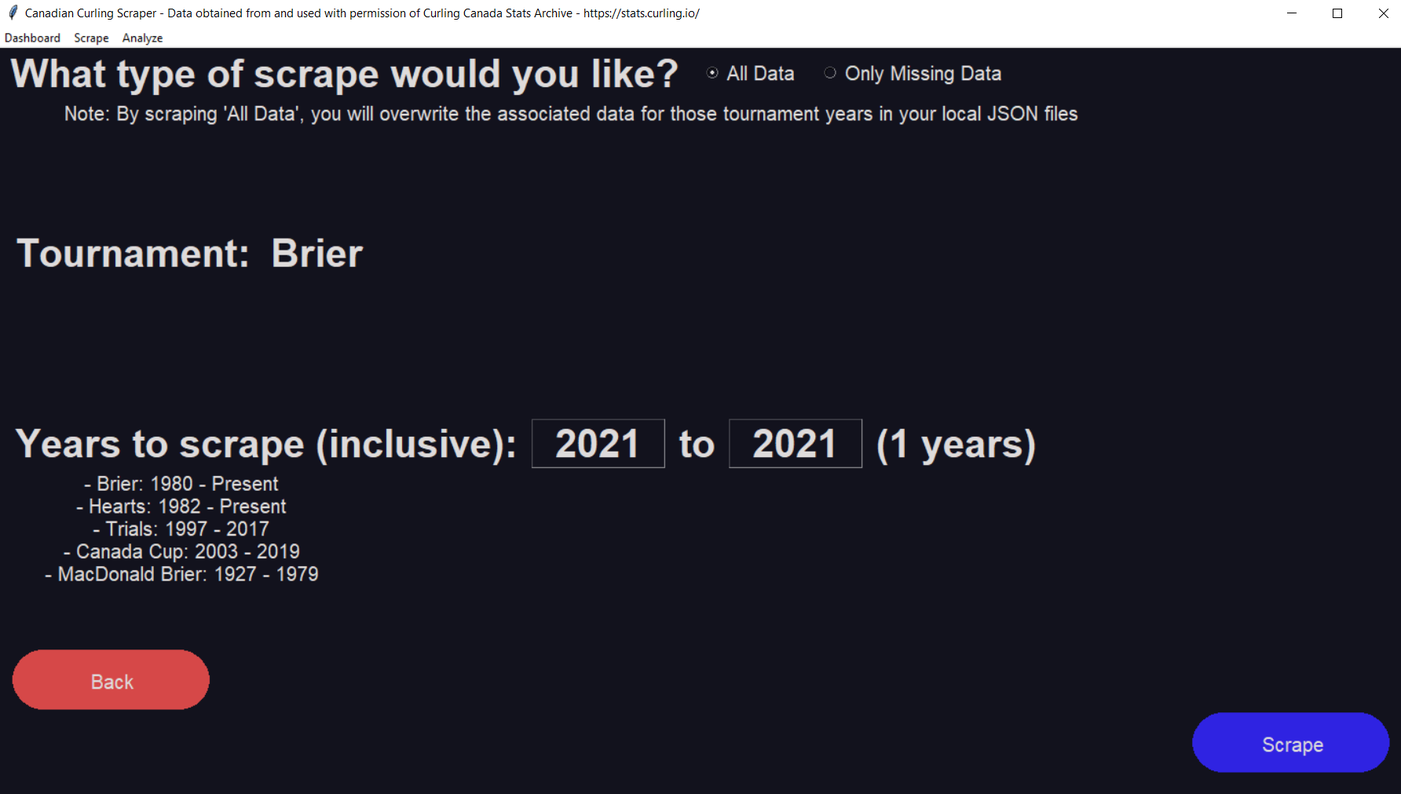
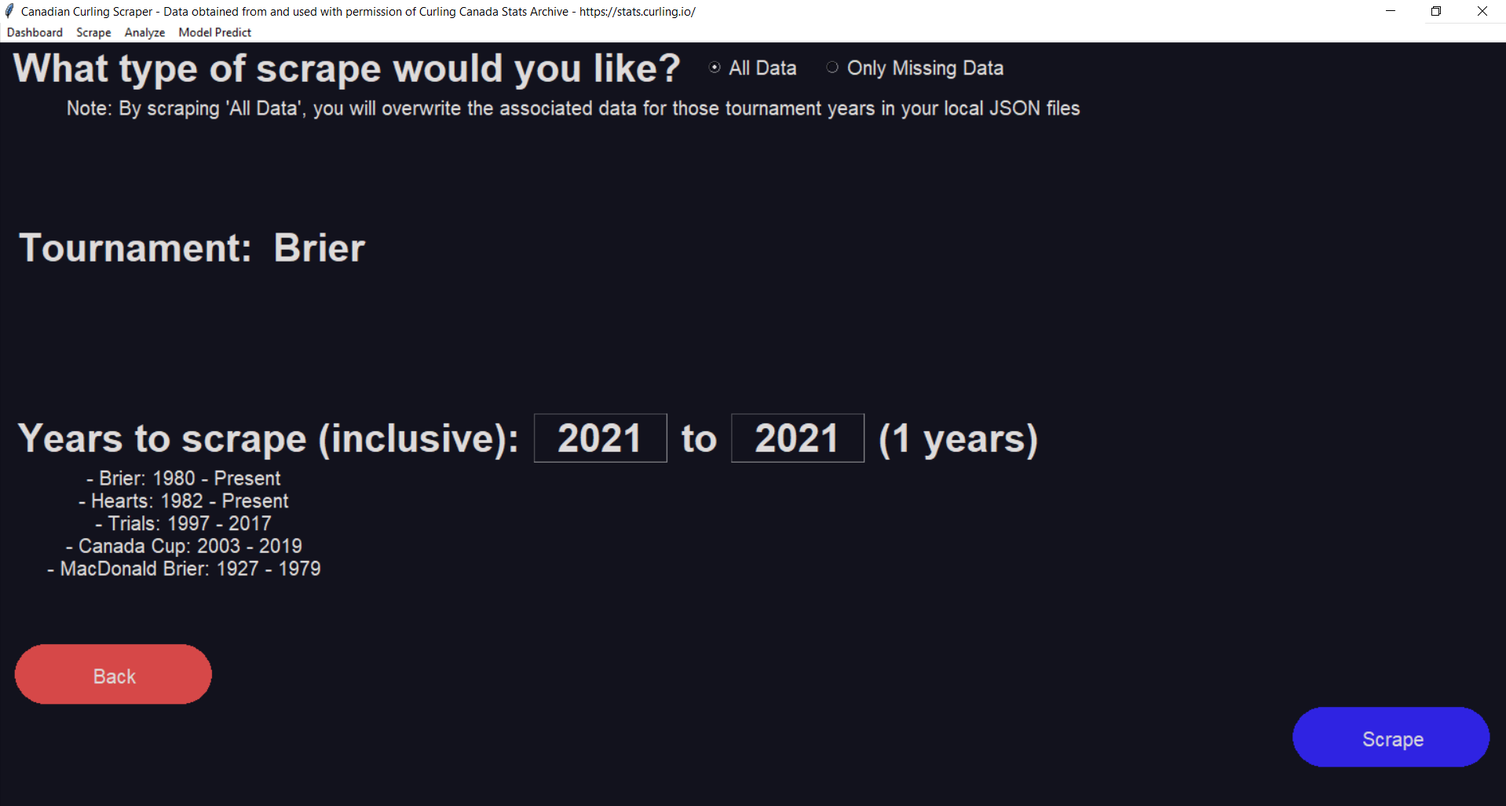
Updated the html and image folder for v2 of the curling scrapper

diff --git a/curling/index.html b/curling/index.html
@@ -8,182 +8,199 @@
 
 <body>
     <h1 class="code-line" data-line-start=0 data-line-end=1 ><a id="Curling_Canada_Scraper_0"></a>Curling Canada Scraper</h1>
-<ul>
-<li class="has-line-data" data-line-start="1" data-line-end="2"><strong>Author:</strong> Matthew Buglass</li>
-<li class="has-line-data" data-line-start="2" data-line-end="3"><strong>Copyright © 2021. Edwards School of Business - University of Saskatchewan</strong></li>
-<li class="has-line-data" data-line-start="3" data-line-end="4"><strong>Version:</strong> 01.00.00</li>
-<li class="has-line-data" data-line-start="4" data-line-end="5"><strong>Maintainer:</strong> Matthew Buglass</li>
-<li class="has-line-data" data-line-start="5" data-line-end="6"><strong>Email:</strong> <a href="mailto:scrapefl@gmail.com">scrapefl@gmail.com</a></li>
-<li class="has-line-data" data-line-start="6" data-line-end="7"><strong>Status:</strong> Stable Release</li>
-<li class="has-line-data" data-line-start="7" data-line-end="9">Curling data collected from and used with permission of <a href="https://stats.curling.io/"> Curling Canada</a></li>
-</ul>
-<h1 class="code-line" data-line-start=9 data-line-end=10 ><a id="About_9"></a>About</h1>
-<p class="has-line-data" data-line-start="10" data-line-end="13">This program allows for scraping data from Canadian National curling championships<br>
-dating back to the 1928 MacDonald Brier. Additionally, users can customize their data<br>
-sets and preview them before exporting to a csv file format.</p>
-<h1 class="code-line" data-line-start=14 data-line-end=15 ><a id="Change_Log_14"></a>Change Log</h1>
-<p class="has-line-data" data-line-start="15" data-line-end="19"><em>Version 01.00.00:</em> Initial stable release. Includes neural network model training and saving.<br>
-<em>Version 00.01.20:</em> Various bug fixes for retrieving csv data.<br>
-<em>Version 00.01.10:</em> Hotfix for function adding in analysis section.<br>
-<em>Version 00.01.00:</em> Initial Beta Release.</p>
-<hr>
-<h1 class="code-line" data-line-start=22 data-line-end=23 ><a id="Features_22"></a>Features</h1>
-<h2 class="code-line" data-line-start=23 data-line-end=24 ><a id="Data_Scraping_23"></a>Data Scraping</h2>
-<p class="has-line-data" data-line-start="24" data-line-end="25"><img src="readmeImages/img_1.png" alt="img_1.png"></p>
-<p class="has-line-data" data-line-start="26" data-line-end="29">By clicking “Scrape” in the top left toolbar users can choose to scrape only years<br>
-of data that are not on file, or scrape all new data in case of database changes or<br>
-updates. Users can choose one of 5 professional curling tournaments:</p>
-<ul>
-<li class="has-line-data" data-line-start="29" data-line-end="30">Brier</li>
-<li class="has-line-data" data-line-start="30" data-line-end="31">Hearts</li>
-<li class="has-line-data" data-line-start="31" data-line-end="32">Men’s Trials</li>
-<li class="has-line-data" data-line-start="32" data-line-end="33">Men’s Canadian Cup</li>
-<li class="has-line-data" data-line-start="33" data-line-end="35">MacDonald Brier</li>
-</ul>
-<p class="has-line-data" data-line-start="35" data-line-end="39">After choosing the tournament and years, users can see progress updated from<br>
-the scrape while they wait for it to complete. After the data is on file locally,<br>
-summary statistics can be viewed for each tournament and year on the main screen<br>
-dashboard.</p>
-<p class="has-line-data" data-line-start="40" data-line-end="41"><img src="readmeImages/img_3.png" alt="img_3.png"></p>
-<h2 class="code-line" data-line-start=42 data-line-end=43 ><a id="Data_Customization_and_Export_42"></a>Data Customization and Export</h2>
-<p class="has-line-data" data-line-start="43" data-line-end="44"><img src="readmeImages/img_5.png" alt="img_5.png"></p>
-<p class="has-line-data" data-line-start="45" data-line-end="47">By clicking “Analyze” in the top Left toolbar users are able to choose a tournament<br>
-and year range of data that they would like to analyze.</p>
-<ul>
-<li class="has-line-data" data-line-start="47" data-line-end="48"><strong>Tournament:</strong> This is which tournament is to be analyzed (i.e. Brier, Hearts, Men’s, Women’s, All, etc.)</li>
-<li class="has-line-data" data-line-start="48" data-line-end="49"><strong>Years:</strong> The inclusive year range of data</li>
-<li class="has-line-data" data-line-start="49" data-line-end="53"><strong>Dependent Variable:</strong> The data variable that you’d like to predict
-<ul>
-<li class="has-line-data" data-line-start="50" data-line-end="52">Only one occurrence of a variable can appear in a data set (i.e. one variable cannot be<br>
-both dependent and independent)</li>
-<li class="has-line-data" data-line-start="52" data-line-end="53">The dependent variable will always appear to the far right of the data set</li>
-</ul>
-</li>
-<li class="has-line-data" data-line-start="53" data-line-end="59"><strong>Granularity:</strong> This is the level at which the data will be analyzed. The statistics from the<br>
-different levels of granularity can be combined using functions like add, sum, division, average,<br>
-standard deviation, and many more. There are 3 levels of granularity:
-<ul>
-<li class="has-line-data" data-line-start="56" data-line-end="57"><em>Match</em> will yield one data line for each game played and is used for comparing match ups</li>
-<li class="has-line-data" data-line-start="57" data-line-end="58"><em>Team</em> will yield two data lines for each game played (one for each team)</li>
-<li class="has-line-data" data-line-start="58" data-line-end="59"><em>Player</em> will yield one data line for each player in each game</li>
-</ul>
-</li>
-<li class="has-line-data" data-line-start="59" data-line-end="63"><strong>Data Variables:</strong> The data variables are on the left side of the screen and can be clicked on<br>
-to be added as independent variables to the data set. The variables will be added to the data set<br>
-in the order that they were clicked on. Selected variables will be highlighted.</li>
-</ul>
-<h3 class="code-line" data-line-start=63 data-line-end=64 ><a id="Adding_Variable_Options_63"></a>Adding Variable Options</h3>
-<p class="has-line-data" data-line-start="64" data-line-end="68"><img src="readmeImages/img_6.png" alt="img_6.png"><br>
-<img src="readmeImages/img_7.png" alt="img_7.png"><br>
-<img src="readmeImages/img_8.png" alt="img_8.png"><br>
-<img src="readmeImages/img_9.png" alt="img_9.png"></p>
-<p class="has-line-data" data-line-start="69" data-line-end="74">If the independent variable to you need is not present, “Add Option” can<br>
-be clicked on to add new variables. A new window will pop up presenting you with options to add your own<br>
-custom data variables. Dropdown menus are available showing available functions, special states<br>
-(winner, loser, red, yellow, etc.), and data elements to be used. Any previously created data variable can<br>
-be used as an input for the data selection.</p>
-<p class="has-line-data" data-line-start="75" data-line-end="76"><img src="readmeImages/img_10.png" alt="img_10.png"></p>
-<p class="has-line-data" data-line-start="77" data-line-end="78">Additionally, if line scores are selected as a data element the ends necessary will need to be specified.</p>
-<h3 class="code-line" data-line-start=79 data-line-end=80 ><a id="Exporting_to_CSV_79"></a>Exporting to CSV</h3>
-<p class="has-line-data" data-line-start="81" data-line-end="84">To export your data to a CSV, click the green “To CSV” button in the bottom right. The data set will be<br>
-cleaned by removing any records that do not match the expected values for each data field, and a file dialog<br>
-window will be launched to permit you to save the file in your desired location.</p>
-<h2 class="code-line" data-line-start=85 data-line-end=86 ><a id="Neural_Network_Training_85"></a>Neural Network Training</h2>
-<h3 class="code-line" data-line-start=87 data-line-end=88 ><a id="Neural_Network_Settings_87"></a>Neural Network Settings</h3>
-<p class="has-line-data" data-line-start="88" data-line-end="94"><img src="readmeImages/img_11.png" alt="img_11.png"><br>
-In this menu, you can customize the setting for a neural network that will be trained on the data set that<br>
-you just created. The dependent variable that you selected while customizing your data will be used as the<br>
-“target” for the model (ie. the thing that it will try to predict in the output layer), while the other data<br>
-elements will be put into the input layer and used to predict the target. At the top of the screen are<br>
-overarching settings for your model.</p>
-<h4 class="code-line" data-line-start=95 data-line-end=96 ><a id="General_Settings_95"></a>General Settings:</h4>
-<ul>
-<li class="has-line-data" data-line-start="96" data-line-end="101"><strong>Epochs:</strong> Epochs are the number of times that hte model is to be shown the data.<br>
-At each epoch, the data elements in the testing data set are shuffled and fed<br>
-through the network. The more epochs you use, the more accurate your model will be<br>
-(up to a point, because epoch number increases yield diminishing returns) but the<br>
-longer that your model will take to train.</li>
-<li class="has-line-data" data-line-start="101" data-line-end="107"><strong>Model Optimizer:</strong> The optimizer is the algorithm or method that the model uses to<br>
-change the internal weights and biases of the nodes in a neural network. Different<br>
-optimizers are more or less useful depending on the nature of your analysis.
-<ul>
-<li class="has-line-data" data-line-start="104" data-line-end="107">For discussion on different optimizers, refer to<br>
-<a href="https://towardsdatascience.com/overview-of-various-optimizers-in-neural-networks-17c1be2df6d5">Overview of various Optimizers in Neural Networks</a><br>
-written by Satyam Kumar.</li>
-</ul>
-</li>
-<li class="has-line-data" data-line-start="107" data-line-end="112"><strong>Training Percent:</strong> The training percent is a value from 1.0-100.0 that determines<br>
-how much of the dataset should be used to train, test, and validate the<br>
-model. The number entered will be the percent of the dataset that is used<br>
-for training. The remaining percent will be divided evenly into testing and<br>
-validation datasets.</li>
-<li class="has-line-data" data-line-start="112" data-line-end="119"><strong>Model Loss Function:</strong> The loss function is what is used to calculate the difference<br>
-in the model’s prediction and its target. The model attempts to minimize the result from<br>
-the loss function using the optimizer algorithm.
-<ul>
-<li class="has-line-data" data-line-start="115" data-line-end="119">For information on the four main loss functions, (Mean Squared Error, Binary Crossentropy,<br>
-Categorical Crossentropy, and Sparse Categorical Crossentropy) please see<br>
-<a href="https://towardsdatascience.com/understanding-different-loss-functions-for-neural-networks-dd1ed0274718">Understanding different Loss Functions for Neural Networks</a><br>
-written by Shiva Verma</li>
-</ul>
-</li>
-<li class="has-line-data" data-line-start="119" data-line-end="121"><strong>Model Name:</strong> This is what you would like to name your model. When saving, this will be the<br>
-folder name for the model.</li>
-<li class="has-line-data" data-line-start="121" data-line-end="125"><strong>Evaluation Metrics:</strong> These are additional data elements that you would like to use<br>
-to judge your model. You can select none, one, or many. Accuracy and Binary Accuracy are<br>
-common selections.</li>
-</ul>
-<p class="has-line-data" data-line-start="125" data-line-end="129">Below those, there are the hidden layer settings. Hidden layers are processing steps<br>
-that are sandwiched between the input and output layers. The layers are processed<br>
-sequentially from the top to the bottom. You can add, move, edit, or delete layers as<br>
-you wish. The model can have none, one, or many hidden layers.</p>
-<h4 class="code-line" data-line-start=129 data-line-end=130 ><a id="Hidden_Layer_Settings_129"></a>Hidden Layer Settings:</h4>
-<ul>
-<li class="has-line-data" data-line-start="130" data-line-end="131"><strong>Name:</strong> This is what you’d like to name the layer</li>
-<li class="has-line-data" data-line-start="131" data-line-end="134"><strong>Layer Size:</strong> This is the number of nodes in the layer. Each node will be initialized<br>
-with the activation function of the layer and will be independently updated as the<br>
-model is trained.</li>
-<li class="has-line-data" data-line-start="134" data-line-end="138"><strong>Layer Type:</strong> The layer type defines how the outputs of the previous layer are<br>
-directed to the inputs of this layer.
-<ul>
-<li class="has-line-data" data-line-start="136" data-line-end="138">Right now only the Dense layer type is available. With the Dense layer type, each<br>
-output of the previous layer is used as an input.</li>
-</ul>
-</li>
-<li class="has-line-data" data-line-start="138" data-line-end="146"><strong>Activation Function:</strong> The activation function is the mathematical relationship<br>
-between a node’s input and output. As an example, in single variate linear regression,<br>
-we have an input and an output, and the mx+b function that results from our regression<br>
-is analogous to a node’s activation function.
-<ul>
-<li class="has-line-data" data-line-start="142" data-line-end="146">For more explination on the types of activation functions, check out<br>
-<a href="https://towardsdatascience.com/activation-functions-neural-networks-1cbd9f8d91d6">Activation Functions in Neural Networks</a><br>
-writen by Sagar Sharma.</li>
-</ul>
-</li>
-</ul>
-<h2 class="code-line" data-line-start=146 data-line-end=147 ><a id="Neural_Network_Training_146"></a>Neural Network Training</h2>
-<p class="has-line-data" data-line-start="147" data-line-end="151"><img src="readmeImages/img_12.png" alt="img_12.png"><br>
-After hitting “Train Neural Network” on the settings screen, the dataset you created will<br>
-be cleaned and both it and your settings will be used to create and train a neural<br>
-network. While training, progress updates will be displayed on the screen.</p>
-<ul>
-<li class="has-line-data" data-line-start="152" data-line-end="157"><strong>Known Problems:</strong> At this stage, if the mouse is clicked a message on the top bar of<br>
-the application will say “Not Responding”. Do not worry. Your model is still training,<br>
-the window is just not updating. After the model has finished training, the screen will<br>
-update with the results from the training</li>
-</ul>
-<p class="has-line-data" data-line-start="157" data-line-end="161">After your model has finished training, you have the option to save it for later, once model<br>
-loading and prediction functionalities are implemented. After clicking “Save Model”, you will<br>
-select the directory that you would like your models to be saved in. A folder with your model’s<br>
-name will be created in that directory.</p>
-<hr>
-<h1 class="code-line" data-line-start=163 data-line-end=164 ><a id="Bug_Reporting_163"></a>Bug Reporting</h1>
-<ul>
-<li class="has-line-data" data-line-start="164" data-line-end="166">If you find any bugs or have suggestions, please fill out our<br>
-<a href="https://forms.gle/a81KZ8MF55q5G7bs9">Bug Reporting Google Form</a>.</li>
-<li class="has-line-data" data-line-start="166" data-line-end="168">You can see the progress and status of different bugs in the<br>
-<a href="https://trello.com/b/3jCCACQV/curling-scrapper-bug-reporting">Bug Reporting Task Board</a></li>
-</ul>
+    <ul>
+    <li class="has-line-data" data-line-start="1" data-line-end="2"><strong>Author:</strong> Matthew Buglass</li>
+    <li class="has-line-data" data-line-start="2" data-line-end="3"><strong>Copyright © 2021. Edwards School of Business - University of Saskatchewan</strong></li>
+    <li class="has-line-data" data-line-start="3" data-line-end="4"><strong>Version:</strong> 02.00.00</li>
+    <li class="has-line-data" data-line-start="4" data-line-end="5"><strong>Maintainer:</strong> Matthew Buglass</li>
+    <li class="has-line-data" data-line-start="5" data-line-end="6"><strong>Email:</strong> <a href="mailto:scrapefl@gmail.com">scrapefl@gmail.com</a></li>
+    <li class="has-line-data" data-line-start="6" data-line-end="7"><strong>Status:</strong> Stable Release</li>
+    <li class="has-line-data" data-line-start="7" data-line-end="9">Curling data collected from and used with permission of <a href="https://stats.curling.io/">Curling Canada</a></li>
+    </ul>
+    <h1 class="code-line" data-line-start=9 data-line-end=10 ><a id="About_9"></a>About</h1>
+    <p class="has-line-data" data-line-start="10" data-line-end="13">This program allows for scrapping data from Canadian National curling championships<br>
+    dating back to the 1928 MacDonald Brier. Additionally, users can customize their data<br>
+    sets and preview them before exporting to a CSV file format.</p>
+    <h1 class="code-line" data-line-start=14 data-line-end=15 ><a id="Change_Log_14"></a>Change Log</h1>
+    <p class="has-line-data" data-line-start="15" data-line-end="22"><em>Version 02.00.00:</em> Fixed bug issues related to creating neural network models. Models are<br>
+    saved with more extensive statistics and can be loaded into the program to make predictions. Long<br>
+    drop-down menus are displayed alphabetically to improve navigation<br>
+    <em>Version 01.00.00:</em> Initial stable release. Includes neural network model training and saving.<br>
+    <em>Version 00.01.20:</em> Various bug fixes for retrieving CSV data.<br>
+    <em>Version 00.01.10:</em> Hotfix for function adding in the analysis section.<br>
+    <em>Version 00.01.00:</em> Initial Beta Release.</p>
+    <hr>
+    <h1 class="code-line" data-line-start=25 data-line-end=26 ><a id="Features_25"></a>Features</h1>
+    <h2 class="code-line" data-line-start=26 data-line-end=27 ><a id="Data_Scraping_26"></a>Data Scraping</h2>
+    <p class="has-line-data" data-line-start="27" data-line-end="28"><img src="readmeImages/img_1.png" alt="Scrapping home screen"></p>
+    <p class="has-line-data" data-line-start="29" data-line-end="32">By clicking “Scrape” in the top left toolbar users can choose to scrape only years<br>
+    of data that are not on file, or scrape all new data in case of database changes or<br>
+    updates. Users can choose one of 5 professional curling tournaments:</p>
+    <ul>
+    <li class="has-line-data" data-line-start="32" data-line-end="33">Brier</li>
+    <li class="has-line-data" data-line-start="33" data-line-end="34">Hearts</li>
+    <li class="has-line-data" data-line-start="34" data-line-end="35">Men’s Trials</li>
+    <li class="has-line-data" data-line-start="35" data-line-end="36">Men’s Canadian Cup</li>
+    <li class="has-line-data" data-line-start="36" data-line-end="38">MacDonald Brier</li>
+    </ul>
+    <p class="has-line-data" data-line-start="38" data-line-end="42">After choosing the tournament and years, users can see progress updated from<br>
+    the scrape while they wait for it to complete. After the data is on file locally,<br>
+    summary statistics can be viewed for each tournament and year on the main screen<br>
+    dashboard.</p>
+    <p class="has-line-data" data-line-start="43" data-line-end="44"><img src="readmeImages/img_3.png" alt="Dashboard"></p>
+    <h2 class="code-line" data-line-start=45 data-line-end=46 ><a id="Data_Customization_and_Export_45"></a>Data Customization and Export</h2>
+    <p class="has-line-data" data-line-start="46" data-line-end="47"><img src="readmeImages/img_5.png" alt="Dataset customization screen"></p>
+    <p class="has-line-data" data-line-start="48" data-line-end="50">By clicking “Analyze” in the top Left toolbar users can choose a tournament<br>
+    and year range of data that they would like to analyze.</p>
+    <ul>
+    <li class="has-line-data" data-line-start="50" data-line-end="51"><strong>Tournament:</strong> This is which tournament is to be analyzed (i.e. Brier, Hearts, Men’s, Women’s, All, etc.)</li>
+    <li class="has-line-data" data-line-start="51" data-line-end="52"><strong>Years:</strong> The inclusive year range of data</li>
+    <li class="has-line-data" data-line-start="52" data-line-end="56"><strong>Dependent Variable:</strong> The data variable that you’d like to predict
+    <ul>
+    <li class="has-line-data" data-line-start="53" data-line-end="55">Only one occurrence of a variable can appear in a data set (i.e. one variable cannot be<br>
+    both dependent and independent)</li>
+    <li class="has-line-data" data-line-start="55" data-line-end="56">The dependent variable will always appear to the far right of the data set</li>
+    </ul>
+    </li>
+    <li class="has-line-data" data-line-start="56" data-line-end="62"><strong>Granularity:</strong> This is the level at which the data will be analyzed. The statistics from the<br>
+    different levels of granularity can be combined using functions like add, sum, division, average,<br>
+    standard deviation, and many more. There are 3 levels of granularity:
+    <ul>
+    <li class="has-line-data" data-line-start="59" data-line-end="60"><em>Match</em> will yield one data line for each game played and is used for comparing matchups</li>
+    <li class="has-line-data" data-line-start="60" data-line-end="61"><em>Team</em> will yield two data lines for each game played (one for each team)</li>
+    <li class="has-line-data" data-line-start="61" data-line-end="62"><em>Player</em> will yield one data line for each player in each game</li>
+    </ul>
+    </li>
+    <li class="has-line-data" data-line-start="62" data-line-end="66"><strong>Data Variables:</strong> The data variables are on the left side of the screen and can be clicked on<br>
+    to be added as independent variables to the data set. The variables will be added to the data set<br>
+    in the order that they were clicked on. Selected variables will be highlighted.</li>
+    </ul>
+    <h3 class="code-line" data-line-start=66 data-line-end=67 ><a id="Adding_Variable_Options_66"></a>Adding Variable Options</h3>
+    <p class="has-line-data" data-line-start="67" data-line-end="71"><img src="readmeImages/img_6.png" alt="Add Analysis option screen 1"><br>
+    <img src="readmeImages/img_7.png" alt="Add Analysis option screen 2"><br>
+    <img src="readmeImages/img_8.png" alt="Add Analysis option screen 3"><br>
+    <img src="readmeImages/img_9.png" alt="Add Analysis option screen 4"></p>
+    <p class="has-line-data" data-line-start="72" data-line-end="77">If the independent variable you need is not present, “Add Option” can<br>
+    be clicked on to add new variables. A new window will pop up presenting you with options to add<br>
+    custom data variables. Dropdown menus are available showing available functions, special states<br>
+    (winner, loser, red, yellow, etc.), and data elements to be used. Any previously created data variable can<br>
+    be used as an input for the data selection.</p>
+    <p class="has-line-data" data-line-start="78" data-line-end="79"><img src="readmeImages/img_10.png" alt="Add Analysis option screen 5"></p>
+    <p class="has-line-data" data-line-start="80" data-line-end="81">Additionally, if line scores are selected as a data element the ends necessary will need to be specified.</p>
+    <h3 class="code-line" data-line-start=82 data-line-end=83 ><a id="Exporting_to_CSV_82"></a>Exporting to CSV</h3>
+    <p class="has-line-data" data-line-start="84" data-line-end="87">To export your data to a CSV, click the green “To CSV” button in the bottom right. The data set will be<br>
+    cleaned by removing any records that do not match the expected values for each data field, and a file dialogue<br>
+    window will be launched to permit you to save the file in your desired location.</p>
+    <h2 class="code-line" data-line-start=88 data-line-end=89 ><a id="Neural_Network_Training_88"></a>Neural Network Training</h2>
+    <h3 class="code-line" data-line-start=90 data-line-end=91 ><a id="Neural_Network_Settings_90"></a>Neural Network Settings</h3>
+    <p class="has-line-data" data-line-start="91" data-line-end="97"><img src="readmeImages/img_11.png" alt="Neural Network Customization Screen"><br>
+    In this menu, you can customize the setting for a neural network that will be trained on the data set that<br>
+    you just created. The dependent variable that you selected while customizing your data will be used as the<br>
+    “target” for the model (ie. the thing that it will try to predict in the output layer), while the other data<br>
+    elements will be put into the input layer and used to predict the target. At the top of the screen are<br>
+    overarching settings for your model.</p>
+    <h4 class="code-line" data-line-start=98 data-line-end=99 ><a id="General_Settings_98"></a>General Settings:</h4>
+    <ul>
+    <li class="has-line-data" data-line-start="99" data-line-end="104"><strong>Epochs:</strong> Epochs are the number of times that the model is to be shown the data.<br>
+    At each epoch, the data elements in the testing data set are shuffled and fed<br>
+    through the network. The more epochs you use, the more accurate your model will be<br>
+    (up to a point, because epoch number increases yield diminishing returns) but the<br>
+    longer that your model will take to train.</li>
+    <li class="has-line-data" data-line-start="104" data-line-end="110"><strong>Model Optimizer:</strong> The optimizer is the algorithm or method that the model uses to<br>
+    change the internal weights and biases of the nodes in a neural network. Different<br>
+    optimizers are more or less useful depending on the nature of your analysis.
+    <ul>
+    <li class="has-line-data" data-line-start="107" data-line-end="110">For discussion on different optimizers, refer to<br>
+    <a href="https://towardsdatascience.com/overview-of-various-optimizers-in-neural-networks-17c1be2df6d5">Overview of various Optimizers in Neural Networks</a><br>
+    written by Satyam Kumar.</li>
+    </ul>
+    </li>
+    <li class="has-line-data" data-line-start="110" data-line-end="115"><strong>Training Percent:</strong> The training percent is a value from 1.0-100.0 that determines<br>
+    how much of the dataset should be used to train, test, and validate the<br>
+    model. The number entered will be the percent of the dataset that is used<br>
+    for training. The remaining percent will be divided evenly into testing and<br>
+    validation datasets.</li>
+    <li class="has-line-data" data-line-start="115" data-line-end="122"><strong>Model Loss Function:</strong> The loss function is what is used to calculate the difference<br>
+    in the model’s prediction and its target. The model attempts to minimize the result from<br>
+    the loss function using the optimizer algorithm.
+    <ul>
+    <li class="has-line-data" data-line-start="118" data-line-end="122">For information on the four main loss functions, (Mean Squared Error, Binary Crossentropy,<br>
+    Categorical Crossentropy, and Sparse Categorical Crossentropy) please see<br>
+    <a href="https://towardsdatascience.com/understanding-different-loss-functions-for-neural-networks-dd1ed0274718">Understanding different Loss Functions for Neural Networks</a><br>
+    written by Shiva Verma</li>
+    </ul>
+    </li>
+    <li class="has-line-data" data-line-start="122" data-line-end="124"><strong>Model Name:</strong> This is what you would like to name your model. When saving, this will be the<br>
+    folder name for the model.</li>
+    <li class="has-line-data" data-line-start="124" data-line-end="128"><strong>Evaluation Metrics:</strong> These are additional data elements that you would like to use<br>
+    to judge your model. You can select none, one, or many. Accuracy and Binary Accuracy are<br>
+    common selections.</li>
+    </ul>
+    <p class="has-line-data" data-line-start="128" data-line-end="132">Below those, there are the hidden layer settings. Hidden layers are processing steps<br>
+    that are sandwiched between the input and output layers. The layers are processed<br>
+    sequentially from the top to the bottom. You can add, move, edit, or delete layers as<br>
+    you wish. The model can have none, one, or many hidden layers.</p>
+    <h4 class="code-line" data-line-start=132 data-line-end=133 ><a id="Hidden_Layer_Settings_132"></a>Hidden Layer Settings:</h4>
+    <ul>
+    <li class="has-line-data" data-line-start="133" data-line-end="134"><strong>Name:</strong> This is what you’d like to name the layer</li>
+    <li class="has-line-data" data-line-start="134" data-line-end="137"><strong>Layer Size:</strong> This is the number of nodes in the layer. Each node will be initialized<br>
+    with the activation function of the layer and will be independently updated as the<br>
+    model is trained.</li>
+    <li class="has-line-data" data-line-start="137" data-line-end="141"><strong>Layer Type:</strong> The layer type defines how the outputs of the previous layer are<br>
+    directed to the inputs of this layer.
+    <ul>
+    <li class="has-line-data" data-line-start="139" data-line-end="141">Right now only the Dense layer type is available. With the Dense layer type, each<br>
+    output of the previous layer is used as an input.</li>
+    </ul>
+    </li>
+    <li class="has-line-data" data-line-start="141" data-line-end="149"><strong>Activation Function:</strong> The activation function is the mathematical relationship<br>
+    between a node’s input and output. As an example, in single variate linear regression,<br>
+    we have an input and an output, and the mx+b function that results from our regression<br>
+    is analogous to a node’s activation function.
+    <ul>
+    <li class="has-line-data" data-line-start="145" data-line-end="149">For more explanation on the types of activation functions, check out<br>
+    <a href="https://towardsdatascience.com/activation-functions-neural-networks-1cbd9f8d91d6">Activation Functions in Neural Networks</a><br>
+    writen by Sagar Sharma.</li>
+    </ul>
+    </li>
+    </ul>
+    <h2 class="code-line" data-line-start=149 data-line-end=150 ><a id="Neural_Network_Training_and_Prediction_149"></a>Neural Network Training and Prediction</h2>
+    <h3 class="code-line" data-line-start=150 data-line-end=151 ><a id="Network_Training_150"></a>Network Training</h3>
+    <p class="has-line-data" data-line-start="151" data-line-end="155"><img src="readmeImages/img_12.png" alt="img_12.png"><br>
+    After hitting “Train Neural Network” on the settings screen, the dataset you created will<br>
+    be cleaned and both it and your settings will be used to create and train a neural<br>
+    network. While training, progress updates will be displayed on the screen.</p>
+    <ul>
+    <li class="has-line-data" data-line-start="156" data-line-end="161"><strong>Known Problems:</strong> At this stage, if the mouse is clicked a message on the top bar of<br>
+    the application will say “Not Responding”. Do not worry. Your model is still training,<br>
+    the window is just not updating. After the model has finished training, the screen will<br>
+    update with the results from the training</li>
+    </ul>
+    <p class="has-line-data" data-line-start="161" data-line-end="164">After your model has finished training, you have the option to save it for later. After clicking<br>
+    “Save Model”, you will select the directory that you would like your models to be saved in. A<br>
+    folder with your model’s name will be created in that directory.</p>
+    <h3 class="code-line" data-line-start=165 data-line-end=166 ><a id="Network_Prediction_165"></a>Network Prediction</h3>
+    <p class="has-line-data" data-line-start="166" data-line-end="169">By clicking “Model Predict” on the menu bar, you will be prompted to pick the folder<br>
+    of the model that you would like to make predictions from. Make sure that the folder you<br>
+    select has the header “curling_ai_model_” because all files in that folder are required.</p>
+    <p class="has-line-data" data-line-start="170" data-line-end="171"><img src="readmeImages/img_13.png" alt="Model loading file dialog"></p>
+    <p class="has-line-data" data-line-start="172" data-line-end="174">Once the model loads, you can input values and select different variables to make  predictions on the trained model. Your most recent prediction will appear on the<br>
+    top of the screen.</p>
+    <p class="has-line-data" data-line-start="175" data-line-end="176"><img src="readmeImages/img_14.png" alt="Model prediction"></p>
+    <p class="has-line-data" data-line-start="177" data-line-end="181">If you look inside the “curling_ai_model_” you’ll find the files that describe the<br>
+    saved model. By opening the stats text file, you can see the settings that were used<br>
+    to train the model, its layer structure, what it was trying to predict, and the results<br>
+    of its evaluation metrics.</p>
+    <p class="has-line-data" data-line-start="182" data-line-end="184"><img src="readmeImages/img_15.png" alt="Inside curling_ai folder"><br>
+    <img src="readmeImages/img_16.png" alt="Stats text file"></p>
+    <hr>
+    <h1 class="code-line" data-line-start=186 data-line-end=187 ><a id="Bug_Reporting_186"></a>Bug Reporting</h1>
+    <ul>
+    <li class="has-line-data" data-line-start="187" data-line-end="189">If you find any bugs or have suggestions, please fill out our<br>
+    <a href="https://forms.gle/a81KZ8MF55q5G7bs9">Bug Reporting Google Form</a>.</li>
+    <li class="has-line-data" data-line-start="189" data-line-end="191">You can see the progress and status of different bugs in the<br>
+    <a href="https://trello.com/b/3jCCACQV/curling-scrapper-bug-reporting">Bug Reporting Task Board</a></li>
+    </ul>
     <a href="CurlScrape.exe" download="Curling Scrapper" id="v00.01.20">Download Scraper for Windows</a>
 </body>
 </html>
